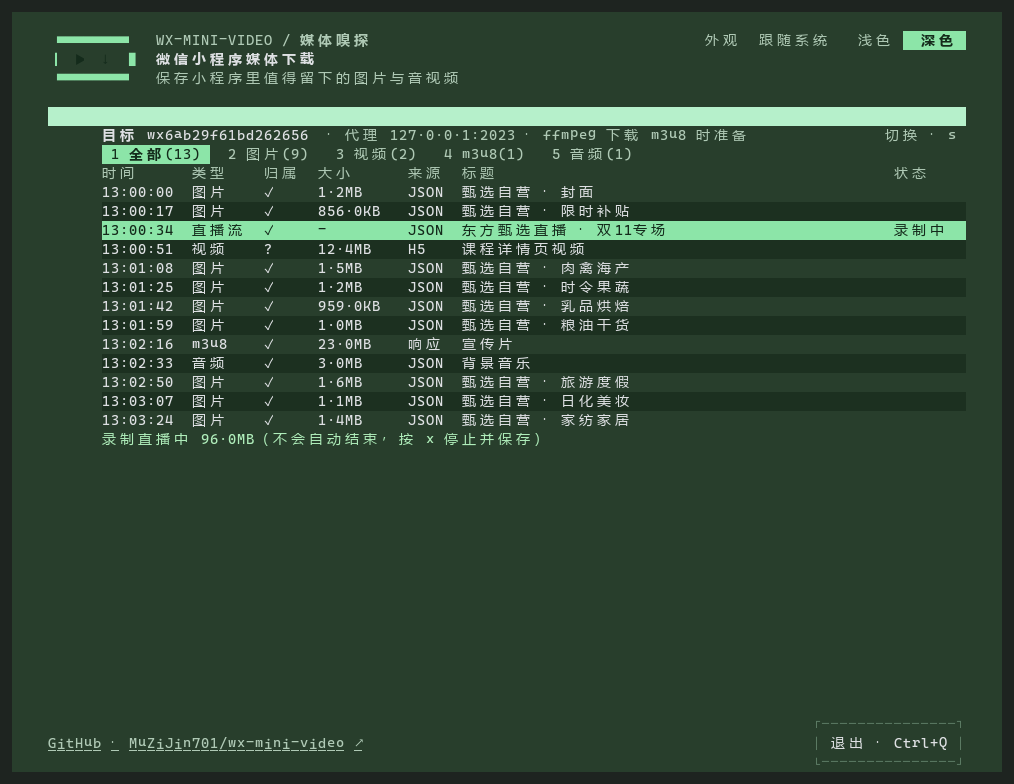
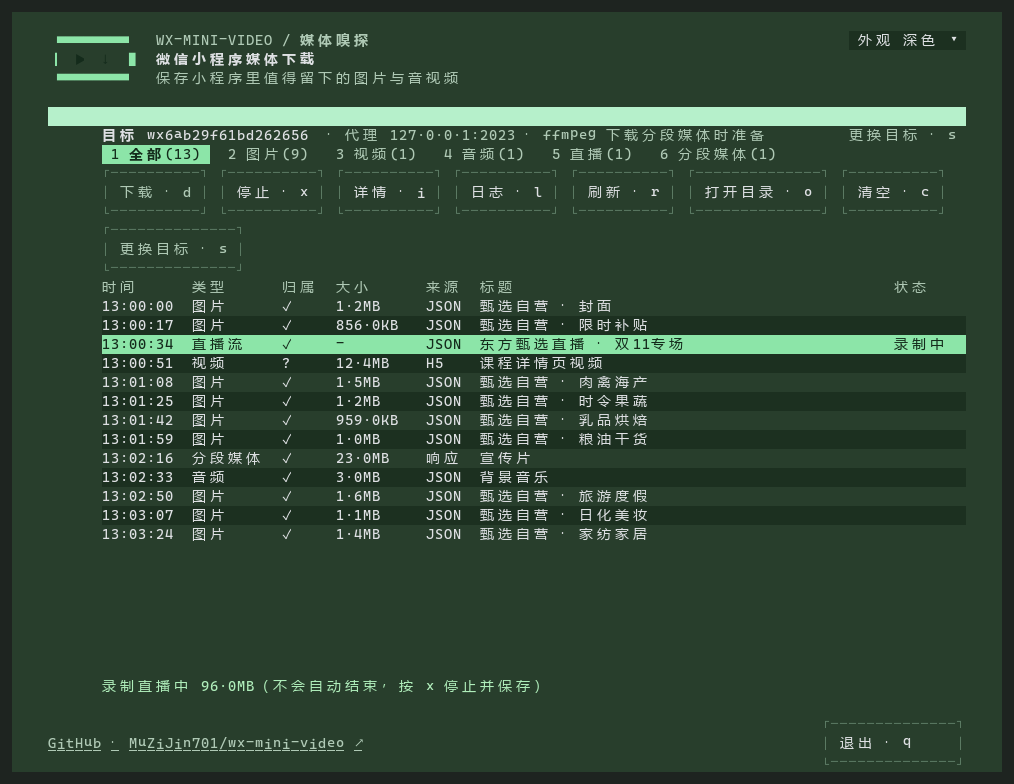
docs: 同步 TUI 对齐需求实施后的文档与操作截图
- README/README.en 按统一目标区、六分类、新下载目录与快捷键重写
- 维护指南、CHANGELOG、GLOSSARY 与 ADR 0011/0012/0013 更新实施状态与差异
- 需求文档归档为已实施并记录未支持项（HLS 直播录制、深路径防护、真机验收）
- 操作截图改为真实 View 渲染，新增外观下拉与日志浮层截图

diff --git a/README.en.md b/README.en.md
@@ -4,7 +4,7 @@ Save images, direct videos, HTTP-FLV live streams, direct audio, and m3u8 media 
 
 [Download latest](https://github.com/MuZiJin701/wx-mini-video/releases/latest) · [简体中文](README.md)
 
-> This document describes the v0.2.0 source (single main surface, per-AppID download folders, HTTP-FLV live recording). Until v0.2.0 is released, the Release channel still serves v0.1.9; to upgrade, replace the exe and keep `wx-mini-video.yaml`, `ffmpeg/`, and `downloads/`.
+> This document describes the v0.2.0 source (discovery on startup, unified target area, six media categories, per-type download folders, HTTP-FLV live recording). Until v0.2.0 is released, the Release channel still serves v0.1.9; to upgrade, replace the exe and keep `wx-mini-video.yaml`, `ffmpeg/`, and `downloads/`.
 
 Windows and macOS packages are available together in the [v0.1.9 Release](https://github.com/MuZiJin701/wx-mini-video/releases/tag/v0.1.9):
 
@@ -18,31 +18,50 @@ Bundled ffmpeg is built from pinned official source (FFmpeg 9.0.2 + OpenSSL 3.5.
 ## Get started
 
 1. Download `wx-mini-video-windows-amd64.zip`, **extract the whole archive**, and double-click `wx-mini-video.exe`; `ffmpeg\ffmpeg.exe` is already included.
-2. The app runs as the current user and prefers an installed Windows Terminal. Starting the proxy for the first time generates and installs a root certificate unique to the current user; administrator (UAC) authorization is requested only when installing the certificate or removing the old shared root.
-3. **Choose a Mini Program**: type a known AppID on the target card and press `Enter`; otherwise press `Ctrl+D`, open the Mini Program in desktop WeChat, select the AppID with `↑/↓`, and press `Enter` to confirm (v0.2.0 no longer asks for a name).
-4. **Reload the media**: once the proxy is running, reopen images or replay video/audio in desktop WeChat. Select with `↑/↓`, press `d`/`Enter` to download, and `o` to open the current Mini Program's folder. The list starts on Videos; `1` shows all and `5` shows audio. `✓` means the source is confirmed, `?` unconfirmed. HTTP-FLV live streams are marked "live"; downloading records continuously — press `x` to stop and save. If the stream drops, recorded content is saved automatically and the reason is reported.
-5. Press `q` to quit and restore the previous system proxy; quitting during a download asks for confirmation. The app stops and saves the in-progress work first; if saving fails, quitting is cancelled and the error UI stays open so you can handle it and press `q` again. If proxy restoration fails, press `r` to retry or `f` to force exit. On the target card, `Esc`/`Ctrl+C` quits.
+2. The app starts the proxy and keeps discovering Mini Programs as soon as it opens, showing "starting the proxy, discovering Mini Programs…" and the proxy status. A `target.appID` in the config only pre-fills the input field; it is **not** confirmed automatically at startup. The first proxy start generates and installs a root certificate unique to the current user; administrator (UAC) authorization is requested only when installing the certificate or removing the old shared root. If startup fails, click "Retry startup · r" or press `r`, or close the app with the footer "Quit · q" button.
+3. **Choose a target**: type a known AppID in the unified target area (cursor editing is supported), or open the Mini Program in desktop WeChat and pick it from the continuously updated "Discovered Mini Programs" list with `↑/↓` and `Enter`; clicking a discovered item confirms it directly. Discovery never selects a target automatically, overwrites your input, or takes focus. `Tab`/`Shift+Tab` cycle through the appearance control, input, discovered list, and confirm button.
+4. After confirmation the full input field and discovered list collapse, leaving the target bar and the "Change target · s" button. Reload images or play video/audio in desktop WeChat. The media view opens on All; `1`–`6` switch All / Images / Videos / Audio / Live / Segmented media. Select with `↑/↓`, press `d`/`Enter` to download, and `o` to open the current Mini Program's folder. `✓` means the source is confirmed, `?` unconfirmed. HTTP-FLV live streams are marked "live"; downloading records continuously — press `x` to stop and save. If the stream drops, recorded content is saved automatically and the reason is reported.
+5. Press `q` or click the footer "Quit · q" button to quit and restore the previous system proxy; quitting during a download or recording asks for confirmation. The app stops and saves the in-progress work first; if saving fails, quitting is cancelled and the error UI stays open so you can handle it and quit again. If proxy restoration fails, press `r` to retry or `f` to force exit. In the target area `Esc` cancels a target change (or quits when no target is confirmed); while the input field has focus `q` is plain text, so use the footer button or `Ctrl+C`/`Ctrl+Q` to quit.
 
-## Interface and appearance
+## Interface and operation
 
-Since v0.2.0 the TUI has a single main surface: brand area (bitmap logo when supported, otherwise a block-character mark, plus the appearance switch) → gradient rule → main area (target card, or target bar + category tabs + candidate table + status line) → footer. The target overlay, detail drawer (`i`), log overlay (`l`), quit confirmation, and certificate confirmation are overlays. Tabs, rows, buttons, and the appearance control accept mouse clicks; all keyboard shortcuts remain available.
+Since v0.2.0 the TUI has a single main surface: brand area (bitmap logo when supported, otherwise a block-character mark, plus the "Appearance <mode> ▾" dropdown) → gradient rule → main area (unified target area, or target bar + category tabs + action buttons + candidate table + status line) → footer (GitHub link and "Quit · q" button). The detail drawer (`i`), log overlay (`l`), appearance dropdown, quit confirmation, legacy-certificate confirmation, and proxy-restore failure screen all have clickable close/cancel/retry/quit buttons.
 
-**Appearance** supports **follow system / light / dark**, switched with `←/→` or a click and remembered in `downloads/ui.json`. When the system theme cannot be read it falls back to dark. The bitmap logo needs terminal graphics support (Sixel in Windows Terminal 1.22+, or kitty); unsupported terminals, `NO_COLOR`, tmux/screen/SSH, or a short window fall back to the block-character mark.
+The media view places eight clickable action buttons above the table, each labelled with its shortcut: Download · d, Stop · x, Details · i, Logs · l, Refresh · r, Open folder · o, Clear · c, Change target · s. Wide windows use three-line framed buttons that wrap as needed; narrower windows shrink to single-line chips. Disabled states follow the shortcuts: an empty list disables Download and Details, while downloading/recording disables another download and target changes but keeps Stop available.
 
 ![Media list: select a candidate and download (live stream selected)](https://raw.githubusercontent.com/MuZiJin701/wx-mini-video/main/docs/images/使用界面.png)
 
 <details>
 <summary>View workflow screenshots</summary>
 
-![Target card](https://raw.githubusercontent.com/MuZiJin701/wx-mini-video/main/docs/images/首页.png)
+![Unified target area: AppID input and discovered list side by side](https://raw.githubusercontent.com/MuZiJin701/wx-mini-video/main/docs/images/首页.png)
 
-![Discovered Mini Programs](https://raw.githubusercontent.com/MuZiJin701/wx-mini-video/main/docs/images/已探测到.png)
+![Discovered Mini Programs: Tab moves focus, Enter or a click confirms](https://raw.githubusercontent.com/MuZiJin701/wx-mini-video/main/docs/images/已探测到.png)
 
-![Completed download](https://raw.githubusercontent.com/MuZiJin701/wx-mini-video/main/docs/images/下载完成.png)
+![Appearance dropdown: follow system / light / dark](https://raw.githubusercontent.com/MuZiJin701/wx-mini-video/main/docs/images/外观下拉.png)
 
-![Live recording](https://raw.githubusercontent.com/MuZiJin701/wx-mini-video/main/docs/images/直播录制.png)
+![Completed download: the status line shows the saved path and the drawer shows the local file](https://raw.githubusercontent.com/MuZiJin701/wx-mini-video/main/docs/images/下载完成.png)
+
+![Live recording: the status line shows the recorded size; press x to stop and save](https://raw.githubusercontent.com/MuZiJin701/wx-mini-video/main/docs/images/直播录制.png)
+
+![Log overlay: startup, discovery, and download progress](https://raw.githubusercontent.com/MuZiJin701/wx-mini-video/main/docs/images/日志浮层.png)
 
 </details>
+
+### Appearance dropdown
+
+The "Appearance <current mode> ▾" control in the brand area is clickable. In the target area, `Tab` can focus it: `←/→` cycle through the three modes directly, `Enter` or a click opens the dropdown, `↑/↓` plus `Enter` or a click selects Follow system / Light / Dark, and `Esc` closes it. In the media view, clicking the control opens the same dropdown. While the input field has focus, `←/→` only move the text cursor.
+
+The preference is written atomically to `downloads/ui.json` and reused on the next start. Follow-system mode reads the system appearance on the UI refresh timer, so no restart is needed; if the system preference cannot be read it falls back to dark. The bitmap logo requires terminal graphics support (Sixel in Windows Terminal 1.22+, or kitty); unsupported terminals, `NO_COLOR`, tmux/screen/SSH, or a short window fall back to the block-character mark, and very narrow windows hide the appearance control and brand image.
+
+## Media categories and live streams
+
+The category tabs are always `1 All / 2 Images / 3 Videos / 4 Audio / 5 Live / 6 Segmented media`, and the media view opens on All.
+
+- **Live is separate and mutually exclusive**: HTTP-FLV live candidates appear only under All and Live, never among ordinary Videos. JSON/H5 URLs are first marked as suspected live and displayed as "live"; once the real response proves a finite FLV file with a length, the candidate returns to Videos and selection follows candidate identity. If a live-status correction moves the selected item out of the current category, the selection is cleared with a notice so another resource cannot be downloaded by accident.
+- **Segmented media**: the m3u8 category is displayed as "Segmented media"; details keep the m3u8/HLS format information and the note that the playlist is merged into mp4. HLS video, audio, and playlists all stay in this group.
+- **Unknown files** appear only under All; no extra category is added.
+- **Scope**: this release supports continuous recording of **HTTP-FLV only**. Continuous HLS (m3u8) live recording is **not supported**; a playlist without `#EXT-X-ENDLIST` may only be saved as the current snapshot and merged into mp4, which is not a complete live recording.
 
 ## Downloaded files
 
@@ -50,8 +69,9 @@ Since v0.2.0 the TUI has a single main surface: brand area (bitmap logo when sup
 downloads/
 ├── <target AppID>/
 │   ├── 图片/ (images)   视频/ (videos)   音频/ (audio)
-│   ├── m3u8/   # merged mp4, playlist cache, segment temp files
-│   └── 其他/   # unknown binaries
+│   ├── 直播/      # HTTP-FLV continuous recordings
+│   ├── 分段媒体/  # merged m3u8 mp4, playlist cache, .segments chunks
+│   └── 其他/      # unknown binaries
 ├── wx-mini-video.log, wx-mini-video-debug.log
 ├── history.jsonl   # target AppID, kind, source, size per success
 ├── ui.json         # appearance preference
@@ -59,32 +79,39 @@ downloads/
 └── ffmpeg.exe (ffmpeg on macOS) and .ffmpeg/ failure logs
 ```
 
-- Default file names are `type_YYYYMMDD-HHMMSS_shortID.ext`, e.g. `视频_20261025-130512_9f8e7d6c.mp4`; merged m3u8 is `.mp4`, HTTP-FLV recordings are `.flv`; collisions get `_2`, `_3`.
-- Unconfirmed (`?`) candidates are filed under the target active at download time, and `history.jsonl` keeps the request source AppID. Media saved flat by older versions is not migrated or deleted; re-downloading creates a new file.
+- Files land under their final type folder: HTTP-FLV recordings in `直播/`, ordinary finite videos (including FLVs confirmed as finite files) in `视频/`, merged m3u8 output plus playlist cache and `.segments` chunks in `分段媒体/`, and unknown files in `其他/`. All is only an aggregate view and has no folder.
+- Default file names are `type_YYYYMMDD-HHMMSS_shortID.ext`, e.g. `视频_20261025-130512_9f8e7d6c.mp4`; live recordings use the `直播_` prefix and segmented media uses `分段媒体_`, and HTTP-FLV recordings are saved as `.flv`. Collisions get `_2`, `_3`.
+- Candidates whose type is only resolved during download move to the correct folder: a suspected live stream confirmed as a finite file moves back to `视频/`, and a stream confirmed as live at download time moves to `直播/` with a `.flv` suffix. History, progress, and the opened location all use the final real path, and cross-folder moves never overwrite existing output or unsaved recordings.
+- Unconfirmed (`?`) candidates are filed under the target active at download time, and `history.jsonl` keeps the request source AppID.
 - Logs, `history.jsonl`, `ui.json`, the exported root certificate, managed ffmpeg, and `.ffmpeg/` stay in the download root; keep them with `downloads/` when moving or upgrading.
+- Media saved flat in the root and the old `m3u8/` folder by older versions are **not migrated or deleted automatically**, and re-downloading creates a new file. The program never clears `downloads/` on startup.
 
 ## Common keys
 
 | Key | Action |
 | --- | --- |
-| `↑/↓`, `k/j` | Select a candidate / row |
-| `d`, `Enter` | Download the selection; live streams start recording |
+| `↑/↓` | Select a candidate (media view) or a discovered Mini Program (target area) |
+| `k/j` | Select a candidate in the media view (same as `↑/↓`) |
+| `d`, `Enter` | Download the selection; live streams start recording (in the target area, `Enter` confirms the focused action) |
 | `x` | Stop the current download; a live recording is saved as `.flv` |
-| `Tab`, `Shift+Tab`, `1/2/3/4/5` | Switch categories (All / Images / Videos / m3u8 / Audio) |
-| `←/→` | Switch appearance: follow system / light / dark |
-| `s`, `Ctrl+D` | Open the target overlay (`Esc` cancels, keeping the current target and candidates) |
+| `Tab`, `Shift+Tab` | Cycle focus in the target area; switch categories in the media view |
+| `1`–`6` | Categories: All / Images / Videos / Audio / Live / Segmented media |
+| `i`, `l` | Toggle the detail drawer / log overlay (`Esc` or a click closes) |
 | `c` | Clear the list (local files are kept) |
-| `i`, `l` | Toggle the detail drawer / log overlay |
+| `r`, `Ctrl+R` | Retry proxy startup after a failure; otherwise refresh candidates and the discovered list |
 | `o`, `Ctrl+O` | Open the current Mini Program folder (download root when no target or missing) |
-| `r`, `Ctrl+R` | Retry proxy startup after a failure; otherwise refresh candidates |
-| `q`, `Ctrl+Q` | Quit and restore the proxy (confirmation during a download) |
-| Mouse | Click tabs, rows (double-click downloads), buttons, and the appearance control; wheel scrolls the list or logs |
+| `s` | Expand the target area to change targets (unavailable while downloading/recording) |
+| `q`, `Ctrl+Q`, `Ctrl+C` | Quit and restore the proxy (confirmation while downloading/recording; `q` is text while the input has focus) |
+| `←/→` | Move the text cursor when the input has focus; switch appearance when the appearance control has focus |
+| `Home/End`, `Ctrl+A/E`, `Backspace`, `Delete`, `Ctrl+U` | Edit the AppID input |
+| `Esc` | Close details/logs/the appearance dropdown; cancel a target change keeping the current target; quit when no target is confirmed |
+| Mouse | Click tabs, rows (double-click downloads), buttons, and the appearance dropdown; click a discovered item to confirm it; wheel scrolls the list, discovered list, or logs |
 
 ## Before you start
 
-- Only one target is sniffed at a time. Discovery does not create target candidates; reload content after confirming a target. Switching targets clears target candidates and progress but keeps local files and unconfirmed media.
+- Only one target is sniffed at a time. Discovery starts automatically but does not equal selection: `target.appID` only pre-fills the input, the runtime target stays empty until you confirm, and during discovery only Mini Programs and unconfirmed media are recorded — no target candidates are created (per [ADR 0008](docs/adr/0008-target-attribution.md)). Reload content after confirming a target to populate its candidates. Switching targets clears target candidates and progress but keeps local files and unconfirmed media; changing targets is blocked while downloading or recording.
 - **Target candidates** require the request source AppID to exactly match the target (`✓`). H5/web-view pages, native players, and CDNs often lack the Mini Program page-frame Referer, so such media is collected as unconfirmed (`?`) under its type category and may be downloaded at your discretion. The tool also scans H5 pages/scripts for inline media URLs, so opening a detail page can produce candidates without playback (marked "H5 page/script scan, unverified"). Set `capture.showUnattributed: false` to disable unconfirmed media.
-- Images, direct videos, and direct audio are saved as-is without transcoding. **HTTP-FLV live streams** (`.flv` URL or `video/x-flv` without `Content-Length`) have no total size or end point and cannot resume; press `x` or confirm quit to stop and save `.flv`. If the stream drops unexpectedly, the recorded part is still saved and added to history; when saving fails, the real error is shown and the `.part` is kept for recovery. Retrying never overwrites an unsaved live recording, and live streams confirmed only at download time are also saved as `.flv`. Play or remux the recording with ffmpeg/VLC; HLS live streams are out of scope for now.
+- Images, direct videos, and direct audio are saved as-is without transcoding. **HTTP-FLV live streams** (`.flv` URL or `video/x-flv` without `Content-Length`) have no total size or end point and cannot resume; press `x` or confirm quit to stop and save `.flv`. If the stream drops unexpectedly, the recorded part is still saved and added to history; when saving fails, the real error is shown and the `.part` is kept for recovery. Retrying never overwrites an unsaved live recording, and streams confirmed as live only at download time are also saved as `.flv` under `直播/`. Play or remux the recording with ffmpeg/VLC. **Continuous HLS (m3u8) live recording is out of scope for this release.**
 - Windows and macOS both ship one complete package; m3u8 needs no network preparation. If the bundled ffmpeg is missing or corrupted the app downloads a managed fallback, and `download.ffmpeg` can point to an existing executable. The bundled ffmpeg is a separate GPLv3 program; see `THIRD-PARTY-NOTICES.md`.
 - The root certificate and private key are generated and reused in a restricted per-user location and are never shipped; re-establish trust after changing machine or Windows user. Exit only restores the proxy and does not remove the certificate. Direct downloads resume with Range when the server provides validation information; after a failure, retrying reuses the `.part` left by the same candidate (live recordings do not reuse old files). JSON cross-origin media does not carry interface credentials.
 
@@ -92,15 +119,19 @@ downloads/
 
 | Problem | What to do |
 | --- | --- |
-| No Mini Program discovered | Make sure the proxy is running and reopen the Mini Program; press `r` to refresh/retry, or `Ctrl+D` to enter an AppID. |
-| No target media in the list | Check the `?` unconfirmed media in Videos; reload media after confirming the target. |
+| No Mini Program discovered | Discovery starts automatically when the app opens; make sure "proxy running" is shown, then reopen the Mini Program. Press `r` to refresh/retry, or type the AppID in the target area. |
+| A Mini Program was found but not selected | Expected: discovery does not select. Choose it with `↑/↓` and press `Enter`, or click the discovered item; updates never overwrite input or change selection identity. |
+| The UI says proxy startup failed | Click "Retry startup · r" or press `r`; handle certificate/UAC prompts if it keeps failing; the footer "Quit · q" button exits. |
+| No target media in the list | Press `1` to view All (including `?` unconfirmed media); reload media after confirming the target. |
 | Live download never ends | Expected: HTTP-FLV has no end point. Press `x` to stop and save `.flv`; remux to mp4 with ffmpeg if needed. |
+| Can HLS/m3u8 live streams be recorded? | Not in this release. HLS playlists are saved as Segmented media and merged from the current playlist; without `#EXT-X-ENDLIST` this may be a snapshot. |
 | Is recorded content kept after a drop? | Yes: on an unexpected drop the recorded part is saved as `.flv` and written to history, with the reason shown in the status line and logs. If saving fails, the real error and the `.part` are kept for retry or manual recovery. |
 | Will a retry re-download everything? | Direct downloads reuse the same candidate's `.part` and resume (the server must provide validation such as ETag). Live recordings start a new file on every retry and never overwrite an unsaved recording. |
 | Saving failed while quitting | Quitting is cancelled automatically; the error and `.part` are kept so you can handle them and press `q` again (`l` opens the log). |
-| Cannot find downloaded files | Press `o` to open the current folder; files saved flat by older versions stay in the `downloads/` root. |
-| Appearance or logo not applied | Check write permission on `downloads/`; the bitmap logo needs a Sixel/kitty terminal, and the block mark is the expected fallback. |
-| Network broken after a crash | Restart, press `Ctrl+D`, wait for the proxy to run, then press `q`. |
+| Cannot find downloaded files | Press `o` to open the current folder and look under `图片/视频/音频/直播/分段媒体/其他`; files saved flat by older versions stay in the `downloads/` root and are not moved automatically. |
+| What about old downloads and the old m3u8 folder? | The new version does not migrate or delete them and never clears `downloads/` on startup; tidy them up manually if needed. |
+| Appearance or logo not applied | Check write permission on `downloads/`; the bitmap logo needs a Sixel/kitty terminal (e.g. Windows Terminal 1.22+), and the block mark is the expected fallback; very narrow windows hide the appearance control. |
+| Network broken after a crash | Restart, wait for "proxy running", then press `q` (use `Ctrl+C` or the footer "Quit · q" button while the input has focus). |
 | Certificate installation failed | Approve UAC; see [certificate troubleshooting (Chinese)](https://github.com/MuZiJin701/wx-mini-video/blob/main/wx-mini-video-knowledge.md#排障). |
 | m3u8 download or merge failed | Make sure `ffmpeg/` is intact; the error names the `.ffmpeg/` log; see [troubleshooting (Chinese)](https://github.com/MuZiJin701/wx-mini-video/blob/main/wx-mini-video-knowledge.md#排障). |
 | Diagnosing sniffing | Start with `--debug`; the log is written to `wx-mini-video-debug.log`. Check for sensitive information before sharing. |

diff --git a/CHANGELOG.md b/CHANGELOG.md
@@ -4,17 +4,42 @@
 
 ## v0.2.0 · 未发布
 
-- 重做 TUI 为单主界面（品牌区/渐变色带/目标选择卡或媒体视图/底栏）：目标选择改为覆盖层且选中即确认，详情抽屉、日志浮层、退出与证书确认改为覆盖层；新增浅色/深色/跟随系统（`downloads/ui.json`）、鼠标点击、按显示宽度排版的候选表格、已下载标记与下载中退出确认。品牌区支持终端真图 logo（Sixel/kitty），不可用时降级块字符。
+本版按 [TUI 对齐、目标选择与媒体分类需求](docs/tui-alignment-requirements.md) 完成单主界面、统一目标选择区、六个媒体分类与按类型下载目录的改造；相关取舍见 [ADR 0011](docs/adr/0011-single-main-surface-ui.md)、[ADR 0012](docs/adr/0012-per-appid-download-layout.md)、[ADR 0013](docs/adr/0013-live-stream-recording.md)。
+
+### 界面与交互
+
+- 启动即发现：程序打开后自动启动代理并持续发现小程序，界面显示启动状态；首次证书检查/UAC/系统授权沿用现有流程，启动失败提供可点击“重试启动 · r”与页脚退出按钮。`target.appID` 只预填输入框，用户确认前运行时目标为空；确认后才 `SetTarget` 并开始收集目标候选。
+- 统一目标选择区：AppID 输入框（光标编辑：`←/→`、`Home/End`、`Backspace/Delete`、`Ctrl+U`）、确认按钮、启动/发现状态与持续更新的已发现列表同时存在；`Tab`/`Shift+Tab` 焦点顺序为外观 → 输入 → 发现列表（有结果时）→ 确认 → 取消（仅更换目标时）；`↑/↓` 导航列表，`Enter` 执行当前焦点对应的确认动作，鼠标点击发现列表项直接确认。发现结果不自动选定目标、不覆盖输入、不抢焦点，选中 AppID 按身份而非行号保持。确认后收起完整输入与列表，保留“目标 AppID”目标条与“更换目标 · s”；更换时展开同一区域，`Esc`/取消保留当前目标、候选与已输入内容；下载/录制中禁止更换目标。
+- 删除 `Ctrl+D` 手动/发现模式切换与目标选择覆盖层，AppID 输入与发现列表在同一区域并存。
+- 媒体分类改为 `1 全部 / 2 图片 / 3 视频 / 4 音频 / 5 直播 / 6 分段媒体`，进入媒体视图默认“全部”。HTTP-FLV 直播只进“全部”和“直播”，不再混入普通视频；疑似直播仍标“直播流”，实际响应确认是有限 FLV 后归回“视频”；直播状态被下载响应修正而移出当前分类时，选中会清空并提示重新选择。m3u8 分类显示名改为“分段媒体”，详情保留 m3u8/HLS 格式信息与“由播放列表描述、合并为 mp4”，HLS 视频/音频/播放列表仍在分段媒体分组；未知文件只在“全部”。
+- 媒体视图新增可点击操作按钮栏（宽窗口 3 行按钮，小窗口换行或收缩为单行 chip）：下载 · d、停止 · x、详情 · i、日志 · l、刷新 · r、打开目录 · o、清空 · c、更换目标 · s；页脚提供 GitHub 链接与“退出 · q”按钮。禁用状态与快捷键一致：空列表禁用下载/详情；下载/录制中禁用再次下载与更换目标，停止可用。详情抽屉、日志浮层、目标选择区、退出确认、旧证书确认、代理恢复失败界面都有可点击的关闭/取消/重试/退出按钮。
+- 品牌区右侧新增“外观 <当前模式> ▾”下拉：目标选择区 `Tab` 可聚焦，`←/→` 直接切换，`Enter`/点击展开跟随系统/浅色/深色，`↑/↓` + `Enter` 或点击选择，`Esc` 关闭；媒体视图可点击打开。偏好原子写入 `downloads/ui.json`，跟随系统持续轮询系统明暗；输入框聚焦时 `←/→` 仅编辑文本，不再占用外观切换。
+- 修复鼠标悬停导致界面错乱：悬停样式不再改变单行区域的高度与宽度，覆盖层改为横向合成、不再抹掉两侧内容；新增自动化回归遍历目标选择、媒体列表与下载中、详情、外观下拉、日志、退出确认、旧证书确认、启动失败与代理恢复失败等 12 种界面状态 × 110×40、80×24、60×20 三种尺寸，对每个命中区域断言物理行数、每行显示宽度与命中坐标稳定。
+- 布局按 76 列/52 列/32 行断点自适应：110×40、80×24、60×20 均可用，小窗口缩减次要信息、按钮换行/收缩，分类页签自动降级为紧凑标签，60 列仍能看到全部分类；品牌区使用真图 logo（不可用时块字符降级）+ 渐变色带 + 页脚。
 - 删除小程序名称功能：移除 `Target.Name`、`Candidate.AppName`、`target.name`、名称输入/补填步骤与名称前缀命名，AppID 成为唯一目标标识。
-- 下载产物改为 `downloads/<目标 AppID>/<图片|视频|音频|m3u8|其他>/` 分类存放，文件名为 `类型_YYYYMMDD-HHMMSS_候选ID前8位.扩展名`，m3u8 合并产物/缓存/分片统一放入 `m3u8/`；`history.jsonl` 增加 `app_id`/`source_app_id`/`kind`/`attribution`；`o`/`Ctrl+O` 优先打开当前小程序目录；旧版平铺文件不迁移、不删除、不复用。
-- 新增 HTTP-FLV 直播流识别与持续录制：`.flv` 地址与 `video/x-flv` 等类型归为视频并保存 `.flv`；无 `Content-Length` 的 FLV 响应标记为「直播流」，下载即持续录制，按 `x` 或确认退出停止并保存已录内容，不续传、不校验总长度。
-- 修复直播异常断流（断网、`unexpected EOF` 等）只留下 `.part` 的问题：现在会提交已录内容为 `.flv`、写入 `history.jsonl`，状态行显示「直播中断并保存」与中断原因；停止录制时保存失败不再被改写成「已停止下载」，真实错误与 `.part` 都保留。
+
+### 媒体分类、直播与下载目录
+
+- 新增 HTTP-FLV 直播流持续录制：`.flv` 地址与 `video/x-flv` 等类型归为视频并保存 `.flv`；无 `Content-Length` 的 FLV 响应标记为“直播流”，下载即持续录制，按 `x` 或确认退出停止并保存已录内容，不续传、不校验总长度；服务端结束或断开时提交已录内容。本轮仍不支持 HLS（m3u8）持续直播录制。
+- 修复直播异常断流（断网、`unexpected EOF` 等）只留下 `.part` 的问题：现在会提交已录内容为 `.flv`、写入 `history.jsonl`，状态行显示“直播中断并保存”与中断原因；停止录制时保存失败不再被改写成“已停止下载”，真实错误与 `.part` 都保留。
+- 下载产物改为 `downloads/<目标 AppID>/{图片,视频,音频,直播,分段媒体,其他}/`：HTTP-FLV 直播录制进入 `直播/`；普通有限视频（含确认是有限文件的 FLV）进入 `视频/`；m3u8 合并产物、播放列表缓存与 `.segments` 分片统一进入 `分段媒体/`；未知文件进入 `其他/`；“全部”为汇总视图、无对应目录。
+- 文件名为 `<类型前缀>_<YYYYMMDD-HHMMSS>_<候选ID前8位>.<扩展名>`（直播前缀“直播_”，分段媒体前缀“分段媒体_”，重名追加 `_2`、`_3`）；`history.jsonl` 增加 `app_id`/`source_app_id`/`kind`/`attribution`，路径使用最终真实路径；`o`/`Ctrl+O` 优先打开当前小程序目录。
+- 按实际响应晚修正：下载时才发现是直播的候选会补 `.flv` 并移入 `直播/`，疑似直播确认为有限文件会移回 `视频/`；跨目录调整不覆盖已有成品或未保存录制，历史记录、完成提示与打开位置使用最终路径。
 - 修复默认文件名带时间戳导致隔秒重试找不到 `.part`、重新下载全部内容的问题：重试会复用同一候选遗留的 `.part` 并发送 Range 续传（直播录制不复用旧文件，避免覆盖）；新增不固定时钟的续传回归测试。
-- 修复鼠标点击目标选择卡「自动发现」不启动代理；退出确认与旧证书确认面板的按钮、悬停与取消现在都响应鼠标（下载中确认退出仍先停止并保存现场）。
 - 修复重试可能覆盖未保存直播录制的问题：复用 `.part` 前按实际内容识别 FLV 录制并跳过，新录制分配独立文件名；只有下载时才确认为直播的候选，产物后缀会从 `.mp4` 修正为 `.flv`。
-- 修复同一秒连续重试时「成品重名 + 未保存录制 `.part` 重名」叠加导致二次改名绕过保护的问题：选名改为一次同时避开成品与同候选 `.part`，续传直接使用遗留基名，不再经过二次改名。
+- 修复同一秒连续重试时“成品重名 + 未保存录制 `.part` 重名”叠加导致二次改名绕过保护的问题：选名改为一次同时避开成品与同候选 `.part`，续传直接使用遗留基名，不再经过二次改名。
 - 修复确认退出后保存失败仍直接退出的问题：只有下载/录制已正常收尾才继续退出；保存失败会取消自动退出，保留错误界面与 `.part`，处理后可再次按 `q` 退出。
-- README/知识文档与操作截图更新；版本号升至 0.2.0（发布前 Release 仍为 v0.1.9）。
+- 旧版平铺文件与旧 `m3u8/` 目录不迁移、不自动删除、不复用；程序启动不清空 `downloads/`。本次本地旧下载数据的一次性清理是用户授权的人工操作，不是程序行为。
+- 运行日志、debug 日志、`history.jsonl`、`ui.json`、根证书、受管/随包 ffmpeg 与 `.ffmpeg/` 失败日志继续留在下载根目录。
+
+### 图标与分发
+
+- 复用本地参考项目 `wechat-channels-downloader` 的 logo：512×512 PNG 用于 TUI 品牌区；7 帧 ICO 经新增 `build/genicon` 生成 COFF 资源（`build.bat` 在 `go build` 前运行 `go run ./build/genicon`，输出仓库根 `wx-mini-video_windows_amd64.syso`，`*.syso` 被 `.gitignore` 忽略、不入库）嵌入 Windows exe；ICNS 由 `build/macos` 放入 `.app/Contents/Resources/logo.icns`，`Info.plist` 声明 `CFBundleIconFile`/`CFBundleIconName=logo`，`build/verify-macos.py` 断言图标与 plist。删除不再生成品牌图的 `build/genlogo`。
+- Windows 与 macOS 包内文件清单保持“单一完整包”不变（Windows 仍为 `README.md`、exe、配置、ffmpeg 与许可、第三方声明；macOS 通用包结构不变，仅新增 `.app` 内 `Resources/logo.icns`）。
+
+### 文档与截图
+
+- README/README.en、维护指南与 CHANGELOG 按新交互重写，操作截图改为由真实 `View` 渲染的预览图（`go run -tags preview ./build/uipreview` + `build/ansi_to_png.py`）；版本号升至 0.2.0（发布前 Release 仍为 v0.1.9）。
 
 ## v0.1.9 · 2026-10-25
 

diff --git a/docs/macos-usage.md b/docs/macos-usage.md
@@ -10,12 +10,12 @@
 
 1. 完整解压 ZIP，保留 `wx-mini-video.app`、`wx-mini-video.yaml`、`README.md`、`ffmpeg/`（含双架构 ffmpeg 与 GPLv3 许可）和 `THIRD-PARTY-NOTICES.md`；只移动 `.app` 会丢失随包 ffmpeg。
 2. 双击 `wx-mini-video.app`。被系统阻止时按“隐私与安全性”针对该应用允许；若提示找不到配置，按引导将应用拖出再拖回解压目录后重试。不要把配置或下载放入 `.app` 内部。
-3. 按系统提示允许控制 Terminal；在目标选择卡输入 AppID 或按 `Ctrl+D` 发现并选择小程序，确认后才启动代理。
+3. 按系统提示允许控制 Terminal。程序打开即自动启动代理并持续发现小程序，界面显示启动状态；在统一目标选择区输入 AppID，或从持续更新的“已发现的小程序”列表用 `↑/↓` 选择后按 `Enter`（鼠标点击发现项直接确认）。配置中的 `target.appID` 只预填输入框，不会自动确认目标。
 4. 首次启动代理时允许将本机独立根证书加入当前用户默认钥匙串并信任；启用/恢复系统代理会请求管理员授权，TUI 本身以普通用户运行。
-5. 代理运行后重新加载图片或播放音视频：`d`/`Enter` 下载，`o` 打开当前小程序目录，`1` 查看全部；来源未确认媒体以 `?` 标记并入分类。HTTP-FLV 直播流标记为「直播流」，持续录制并按 `x` 停止保存为 `.flv`；异常断流时也会自动保存已录内容并提示原因，重试不会覆盖未保存的录制；确认退出时若保存失败会取消退出并保留错误。
-6. 按 `q` 退出并恢复原代理；恢复失败时按 `r` 重试，理解影响后可 `f` 强制退出。
+5. 代理运行后重新加载图片或播放音视频：媒体视图默认显示“全部”，`1`–`6` 切换全部 / 图片 / 视频 / 音频 / 直播 / 分段媒体；`↑/↓` 选中，`d`/`Enter` 下载，`o` 打开当前小程序目录；来源未确认媒体以 `?` 标记并入分类。品牌区右侧“外观 ▾”可切换跟随系统/浅色/深色（保存在 `downloads/ui.json`）。HTTP-FLV 直播流标记为“直播流”，持续录制并按 `x` 停止保存为 `.flv`；异常断流时也会自动保存已录内容并提示原因，重试不会覆盖未保存的录制；确认退出时若保存失败会取消退出并保留错误。HLS（m3u8）持续直播录制本轮不支持，m3u8 只按“分段媒体”保存当前播放列表并合并。
+6. 按 `q` 或点击页脚“退出 · q”退出并恢复原代理；恢复失败时按 `r` 重试，理解影响后可 `f` 强制退出。输入框聚焦时 `q` 是文本，可用 `Ctrl+C`/`Ctrl+Q` 或页脚按钮退出。
 
-媒体保存在解压文件夹的 `downloads/`，升级时替换 `.app` 并保留配置与 `downloads/`。根证书与私钥在 `~/Library/Application Support/wx-mini-video/certificates/root-ca.pem`，不随文件夹移动或分发。
+媒体保存在解压文件夹的 `downloads/<目标 AppID>/{图片,视频,音频,直播,分段媒体,其他}`，升级时替换 `.app` 并保留配置与 `downloads/`；旧版平铺文件与旧 `m3u8/` 目录不迁移、不自动删除，程序启动不会清空 `downloads/`。根证书与私钥在 `~/Library/Application Support/wx-mini-video/certificates/root-ca.pem`，不随文件夹移动或分发。
 
 ## 网络与证书排障
 
@@ -23,7 +23,7 @@
 - 运行中活动接口变化时停止嗅探并恢复原代理，按 `r` 重启；同一接口内的 Wi-Fi 热点切换不保证被识别。
 - 没有媒体时确认目标后重新加载；来源不匹配的媒体以 `?` 显示，手动输入 AppID 不会改变归属。
 - 信任未建立时，可在钥匙串访问中导入 `downloads/WxMiniVideoRoot.cer` 并核对指纹；不要导入或分享含私钥的 `root-ca.pem`。正常退出保留证书，停用时按实际指纹删除；旧共享证书指纹为 `D70CD039051F77C30673B8209FC15EFA650ED52C`。
-- 异常终止后重新运行并进入发现，代理启动后按 `q` 清理；仍无法恢复时在系统设置中只移除指向本工具的代理地址。
+- 异常终止后重新运行，等界面显示“代理运行中”后按 `q` 清理；仍无法恢复时在系统设置中只移除指向本工具的代理地址。
 
 ## 验证反馈
 
@@ -37,7 +37,7 @@
 go run ./build/macos
 ```
 
-在仓库根目录运行，Windows 与 macOS 均可构建未签名通用测试包；ZIP 保留可执行权限，包含应用、配置、说明、`.app` 外的双架构 `ffmpeg/`、GPLv3 全文与第三方声明，不包含下载数据或私钥。发布前运行 `python3 build/verify-release-sources.py`；无 Mac 环境时可运行 `python3 build/verify-macos.py --package-only` 检查包内容与权限，这不等于原生验收。
+在仓库根目录运行，Windows 与 macOS 均可构建未签名通用测试包；ZIP 保留可执行权限，包含应用（含 `Contents/Resources/logo.icns` 应用图标）、配置、说明、`.app` 外的双架构 `ffmpeg/`、GPLv3 全文与第三方声明，不包含下载数据或私钥。发布前运行 `python3 build/verify-release-sources.py`；无 Mac 环境时可运行 `python3 build/verify-macos.py --package-only` 检查包内容、权限、应用图标与 plist 字段，这不等于原生验收。
 
 正式发布需在具备 Developer ID 与 `notarytool` 凭据的 Mac 上运行：
 

diff --git a/docs/adr/0012-per-appid-download-layout.md b/docs/adr/0012-per-appid-download-layout.md
@@ -1,6 +1,6 @@
 # 下载产物按目标 AppID 与资源类型分类
 
-状态：已确认（2026-10-25）。修订 [ADR 0002](0002-portable-runtime-data.md) 中「下载目录平铺保存媒体」的布局描述。本日后续[需求修订](../tui-alignment-requirements.md)新增直播目录、将 m3u8 目录改为分段媒体；目录修订尚待实施。
+状态：已实施（2026-10-25）。修订 [ADR 0002](0002-portable-runtime-data.md) 中「下载目录平铺保存媒体」的布局描述。本日后续[需求修订](../tui-alignment-requirements.md)新增直播目录、将 m3u8 目录改为分段媒体；目录修订已按该需求实施，差异与后续项见文末“实施记录”。
 
 ## 背景
 
@@ -34,3 +34,12 @@
 - m3u8 分片路径在深目录下可能逼近 Windows 260 字符上限，实现时需缩短分片目录名并做路径长度防护。
 - 切换目标后下载旧的未确认候选会落入新目标目录，这是已接受的取舍；详情与下载记录保留来源 AppID 供核对。
 - 新布局与本次本地旧数据清理需明确区分；README/知识文档随实施更新，不能将本地清理授权泛化为升级时删除其他用户文件。
+
+## 实施记录（2026-10-25）
+
+- 两级分类已按决策实现：`downloads/<目标 AppID>/{图片,视频,音频,直播,分段媒体,其他}`；“全部”为汇总视图、无对应目录；原来的 `m3u8/` 目录被 `分段媒体/` 取代。
+- HTTP-FLV 直播录制进入 `直播/`，普通有限视频（含确认是有限文件的 FLV）进入 `视频/`，m3u8 合并产物、播放列表缓存与 `.segments` 分片进入 `分段媒体/`，未知文件进入 `其他/`。
+- 按实际结果归档已实现：`finalizeOutputPath` 在下载后按最终类型移动成品并修正默认类型前缀与 `.flv` 后缀；跨目录调整同时避开已有成品与同候选未保存录制，历史记录、进度与打开位置使用最终真实路径。
+- AppID 目录名清洗、`.`/`..` 与路径穿越拒绝、Windows 保留名处理、`filepath.IsLocal` 校验均已实现；`history.jsonl` 增加 `app_id`/`kind`/`attribution`/`source_app_id`。
+- 旧数据不迁移：旧版平铺文件与旧 `m3u8/` 目录不迁移、不自动删除、不复用，程序启动不清空 `downloads/`；本次本地旧下载数据的一次性清理是用户授权的人工操作，不写成程序行为。
+- 实现差异/后续项：ADR 后果中提到的 Windows 深路径长度防护（缩短分片目录名、260 字符防护）本次**未新增**，作为后续项；当前分片目录仍为 `分段媒体/.segments/<候选ID>/<内容ID>/`。

diff --git a/docs/adr/0011-single-main-surface-ui.md b/docs/adr/0011-single-main-surface-ui.md
@@ -1,6 +1,6 @@
 # TUI 改为单主界面品牌化布局，并删除小程序名称
 
-状态：已确认（2026-10-25）。本日后续修订以[已确认需求](../tui-alignment-requirements.md)为准；本次视觉对齐与统一目标选择区尚待实施。
+状态：已实施（2026-10-25）。本日后续修订以[已确认需求](../tui-alignment-requirements.md)为准；统一目标选择区、视觉对齐与交互已按该需求实施，实现差异见文末“实施记录”。
 
 ## 背景
 
@@ -35,3 +35,12 @@ v0.1.9 的 TUI 是三屏（AppID 输入 / 小程序发现 / 媒体列表）+ 高
 - logo 与应用图标接入分别涉及 TUI 输出、Windows 资源和 macOS 包配置；真图与降级显示均需验证。
 - 悬停样式不得改变单行区域的高度和宽度；自动化需覆盖所有命中区域的进入/移出及按钮动作一致性，并补充真实终端缩放、滚动和覆盖层验收。
 - 版本升至 0.2.0，并同步 README/知识文档/CHANGELOG。
+
+## 实施记录（2026-10-25）
+
+- 单主界面、统一目标选择区与启动即发现已按决策实现：启动时 `target.appID` 只预填输入框，运行时目标保持为空，确认后才 `SetTarget` 并收集目标候选；发现列表不自动选定、不覆盖输入、不抢焦点，选中身份按 AppID 保持。
+- `Ctrl+D` 手动/发现模式切换与目标选择覆盖层已删除；AppID 输入与发现列表同时存在，媒体视图快捷键表不再出现 `Ctrl+D`。
+- 外观下拉按“品牌区右侧单行控件 + 目标选择区 Tab 焦点”实现：`←/→` 直接切换、`Enter`/点击展开、`↑/↓` + `Enter` 或点击选择、`Esc` 关闭；媒体视图点击可打开；输入框聚焦时 `←/→` 只编辑文本。
+- 媒体分类扩展为 `1 全部 / 2 图片 / 3 视频 / 4 音频 / 5 直播 / 6 分段媒体`，默认“全部”；直播独立页签且与视频互斥，m3u8 显示名改为“分段媒体”（目录调整见 ADR 0012、直播语义见 ADR 0013）。
+- 操作按钮栏与页脚按钮、可点击覆盖层按钮、悬停尺寸稳定性与自动化回归均已实现：回归覆盖 12 种界面状态 × 110×40、80×24、60×20，断言物理行数、每行显示宽度与命中坐标稳定。
+- 与需求的差异/后续项：ADR 0012 提到的 Windows 深路径长度防护本次未新增，列为后续项；真实微信、Windows Terminal 缩放/滚动与 macOS 真机验收仍待人工完成。

diff --git a/docs/adr/0013-live-stream-recording.md b/docs/adr/0013-live-stream-recording.md
@@ -1,6 +1,6 @@
 # HTTP-FLV 直播流识别与持续录制
 
-状态：已确认（2026-10-25）。需求来自用户反馈：小程序直播的 HTTP-FLV 直链被当作普通视频下载。本日后续[需求修订](../tui-alignment-requirements.md)将直播设为独立页签和目录、m3u8 分类改称分段媒体；本次分类与目录修订尚待实施。
+状态：已实施（2026-10-25）。需求来自用户反馈：小程序直播的 HTTP-FLV 直链被当作普通视频下载。本日后续[需求修订](../tui-alignment-requirements.md)将直播设为独立页签和目录、m3u8 分类改称分段媒体；该分类与目录修订已实施，差异与后续项见文末“实施记录”。
 
 ## 背景
 
@@ -40,3 +40,11 @@
 - 停止/退出路径依赖可取消的下载上下文（`downloadCancel`）与「退出前等待下载收尾」的状态（`quitAfterDownload`），测试需覆盖录制停止、退出收尾与普通下载停止。
 - `LooksLikeLiveFLV` 对 `.flv` 地址是启发式：若 CDN 用 `.flv` 提供有限文件，列表会先显示「直播流」，下载时以 `Content-Length` 与 FLV 魔数修正为普通下载（文件名仍是 `.flv`，不影响内容）。
 - HLS 直播仍不在识别范围内，README 与知识文档需注明当前只覆盖 HTTP-FLV。
+
+## 实施记录（2026-10-25）
+
+- 分类与展示已实现：新增直播独立页签 `5 直播`（页签顺序 `1 全部 / 2 图片 / 3 视频 / 4 音频 / 5 直播 / 6 分段媒体`），直播候选只进入“全部”和“直播”；疑似直播保留“直播流”标记；响应确认有限 FLV 后由 `Store.SetLive` 回写并归回“视频”。
+- 目录已按修订后的 ADR 0012 实现：实际直播录制保存到 `直播/`，普通有限 FLV 保存到 `视频/`，晚确认直播同样修正最终路径与 `history.jsonl`。
+- 录制语义、停止/断流保存、重试不复用未保存录制、退出前等待收尾与保存失败保留现场均按决策实现，并有对应回归测试。
+- 界面联动：直播状态被下载响应修正而移出当前分类时，选中会清空并提示重新选择，避免误操作另一条资源；详情保留「HTTP-FLV 直播流」识别依据。
+- 实现差异/后续项：HLS（m3u8）持续直播录制**仍不支持**，本轮不新增该能力；无 `#EXT-X-ENDLIST` 的播放列表可能只保存当前快照并合并为 mp4，文档不得表述为已支持 HLS 直播录制。

diff --git a/docs/tui-alignment-requirements.md b/docs/tui-alignment-requirements.md
@@ -1,6 +1,6 @@
 # TUI 对齐、目标选择与媒体分类需求
 
-状态：已确认（2026-10-25），待实施。用户已整体确认本文需求；本文中的实现现状与复现结论均以需求澄清时的源码为准。
+状态：已实施（2026-10-25）。用户已整体确认本文需求；实现以工作区代码为准，差异与未完成项见文末“实施注记”。
 
 ## 用户诉求
 
@@ -97,6 +97,13 @@
 
 ## 相关决定与实施状态
 
-相关取舍已同步记录至 [ADR 0011](adr/0011-single-main-surface-ui.md)、[ADR 0012](adr/0012-per-appid-download-layout.md)、[ADR 0013](adr/0013-live-stream-recording.md)，术语见 `GLOSSARY.md`。用户操作文档、维护指南与截图在程序实施时同步更新，避免将待实施方案表述为当前功能。
+相关取舍已同步记录至 [ADR 0011](adr/0011-single-main-surface-ui.md)、[ADR 0012](adr/0012-per-appid-download-layout.md)、[ADR 0013](adr/0013-live-stream-recording.md)，术语见 `GLOSSARY.md`。用户操作文档、维护指南与截图已随实施更新。
 
-本次交付为已确认需求及设计记录。程序代码、图标替换、旧下载数据清理、构建与实机验收均待实施。
+## 实施注记（2026-10-25）
+
+- 本文需求已整体实施：启动即自动代理与持续发现、统一目标选择区（输入/确认/状态/发现列表并存，Tab 焦点、确认收起、更换目标、取消保留现场）、发现不自动选定且选中身份按 AppID 保持、六个分类与默认“全部”、直播独立页签与互斥、分段媒体显示名与详情、`downloads/<AppID>/{图片,视频,音频,直播,分段媒体,其他}` 目录与晚修正、按钮栏与快捷键、外观下拉、悬停尺寸稳定与自动化、参考项目 logo 接入 TUI/exe/`.app`。
+- 与需求的差异/未完成项：
+  - HLS（m3u8）持续直播录制**仍不支持**；本轮只支持 HTTP-FLV 持续录制，分段媒体下载不能表述为 HLS 直播录制。
+  - [ADR 0012](adr/0012-per-appid-download-layout.md) 提到的 Windows 深路径长度防护（260 字符限制、缩短分片目录名）本次**未新增**，作为后续项。
+  - 真实 PC 微信、Windows Terminal 缩放/滚动与 macOS 真机验收**待做**；自动化与打包检查不能替代真机验收。
+  - 本次本地旧下载数据的一次性清理是人工授权操作；程序不自动迁移、删除或清空 `downloads/`。

diff --git a/GLOSSARY.md b/GLOSSARY.md
@@ -20,6 +20,22 @@ _Avoid_: 媒体嗅探、已安装小程序列表
 同时提供 AppID 手动输入与已发现小程序列表、供用户确认目标的界面区域。
 _Avoid_: 输入模式、发现模式
 
+**目标条**：
+用户确认目标后、目标选择区收起时仍显示当前目标 AppID 与“更换目标”入口的单行摘要。
+_Avoid_: 目标标题栏、状态栏
+
+**已发现列表**：
+目标选择区中随网络活动持续更新的小程序 AppID 及其首次/最近出现时间的列表。
+_Avoid_: 已安装小程序列表、目标列表
+
+**操作按钮栏**：
+媒体视图表格上方、标注快捷键并可点击的执行按钮行；按窗口宽度换行或收缩为单行 chip。
+_Avoid_: 工具栏、菜单栏
+
+**外观下拉**：
+品牌区右侧展开“跟随系统 / 浅色 / 深色”选项的控件；也可在目标选择区用 Tab 聚焦后操作。
+_Avoid_: 主题切换器、皮肤菜单
+
 **外观模式**：
 界面明暗配色的用户选择：跟随系统、浅色或深色。
 _Avoid_: 主题、皮肤、配色方案
